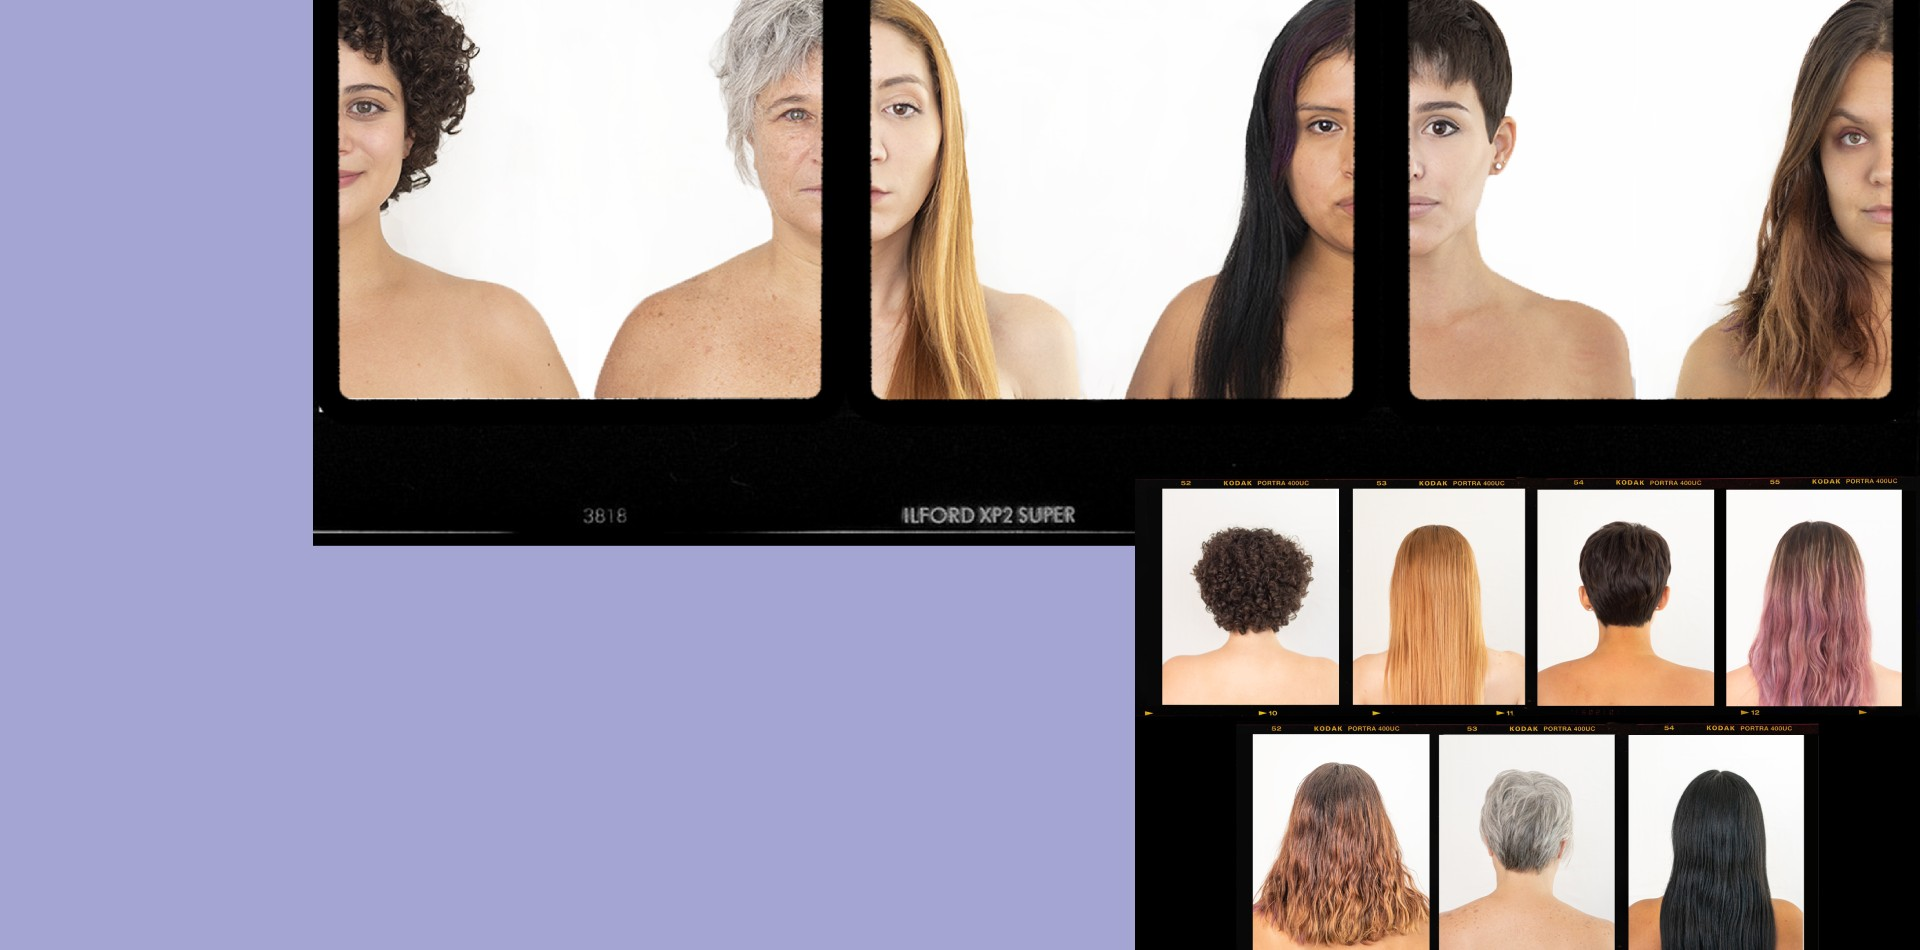
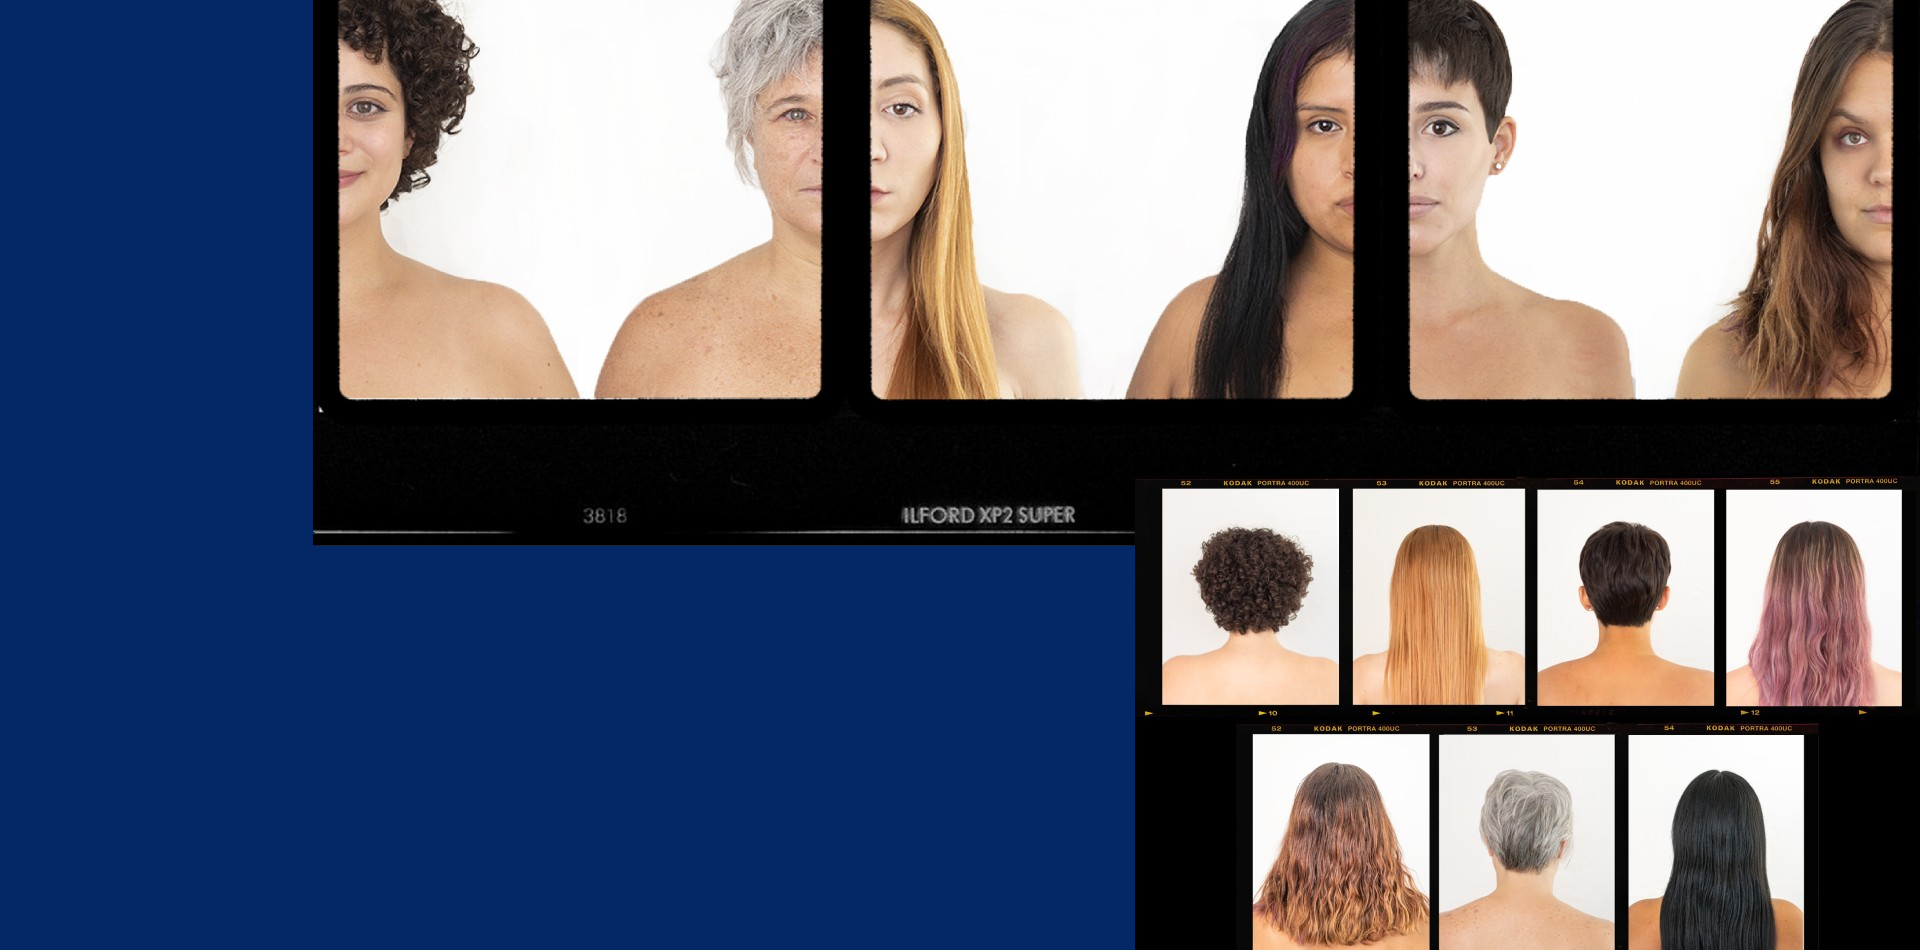
.

diff --git a/index.html b/index.html
@@ -82,9 +82,9 @@
     <div id="Wrapper">
         <div id="Header_wrapper">
             <header id="Header">
-                <div class="mfn-main-slider" id="mfn-rev-slider">
+                <div class="mfn-main-slider" id="mfn-rev-slider" style="background-color: #042766;">
                     <p class="rs-p-wp-fix"></p>
-                    <rs-module-wrap id="rev_slider_1_1_wrapper" data-source="gallery" style="background:transparent;padding:0;margin:0px auto;margin-top:0;margin-bottom:0;">
+                    <rs-module-wrap id="rev_slider_1_1_wrapper" data-source="gallery" style="background:transparent;padding:0;margin:0px auto;margin-top:0;margin-bottom:0; background-color: #042766;">
                         <rs-module id="rev_slider_1_1" style="display:none;" data-version="6.1.2">
                             <rs-slides>
                                 <rs-slide data-key="rs-1" data-data-anim="ei:d;eo:d;s:1000;r:0;t:fade;sl:0;">
@@ -279,6 +279,35 @@
                                                 </p>
                                             </div>
                                         </div>
+                                        
+                                        <!-- <div class="column mcb-column one-second column_column">
+                                            <div class="column_attr clearfix align_center" style="padding:0 15%;">
+                                                <div class="image_frame image_item no_link scale-with-grid alignnone no_border">
+                                                    <div class="image_wrapper"><img class="scale-with-grid" style="border-radius: 2%;" src="imagenes/Bellamente_Maro.jpg">
+                                                    </div>
+                                                </div>
+                                                <hr class="no_line" style="margin:0 auto 30px">
+                                                <h3 style="color: #042766;">Canas</h3>
+                                                <p style="color: #042766;">
+                                                    En las distintas etapas de la vida hallamos prejuicios. Cuando crecemos, y nuestro cuerpo cambia, nos encontramos con que las canas son de “dejada”. Con este prejuicio se ve la desigualdad de género que hay con respecto a la estética, ya que solo a las mujeres se les marca eso, mientras que a los hombres que eligen dejarse las canas se los ve como “interesantes”, “inteligentes”.
+                                                </p>
+                                            </div>
+                                        </div> -->
+                                        
+                                        <div class="column mcb-column one column_divider">
+                                            <hr class="no_line" style="margin:0 auto 30px">
+                                        </div>
+                                    </div>
+                                </div>
+                            </div>
+                        </div>
+
+                        <div class="section mcb-section bg-cover" style="padding-top:0px;padding-bottom:0px;background-color: #ffffff;background-repeat:no-repeat;background-position:center top;" id="prejuicios">
+                            <div class="section_wrapper mcb-section-inner">
+                                <div class="wrap mcb-wrap one valign-top clearfix" style="padding:60px 0 80px;background-color:#ffffff">
+                                    <div class="mcb-wrap-inner">
+                                        
+                                                    
                                         <div class="column mcb-column one-second column_column">
                                             <div class="column_attr clearfix align_center" style="padding:0 15%;">
                                                 <div class="image_frame image_item no_link scale-with-grid alignnone no_border">
@@ -292,20 +321,16 @@
                                                 </p>
                                             </div>
                                         </div>
+                                        
                                         <div class="column mcb-column one column_divider">
                                             <hr class="no_line" style="margin:0 auto 30px">
                                         </div>
-                                        <!-- <div class="column mcb-column one column_button">
-                                            <div class="button_align align_center">
-                                                <a class="button button_size_2 button_theme button_js" href="content/spa5/contact.html"><span class="button_label">CONTACT US</span></a>
-                                            </div>
-                                        </div> -->
                                     </div>
                                 </div>
                             </div>
                         </div>
 
-                        <div class="section mcb-section " style="padding-top:50px;padding-bottom:20px;background-color:#a5a5d3;">
+                        <div class="section mcb-section " style="padding-top:50px;padding-bottom:20px;background-color:#042765;">
                             <div class="section_wrapper mcb-section-inner">
                                 <div class="wrap mcb-wrap one valign-top clearfix">
                                     <div class="mcb-wrap-inner">
@@ -343,7 +368,7 @@
         </footer>
 
     </div>
-    <div id="Side_slide" class="right" style="background-color: #a5a5d3 ;font-weight: bold;;" data-width="250">
+    <div id="Side_slide" class="right" style="background-color: #042765 ;font-weight: bold;;" data-width="250">
         <div class="close-wrapper">
             <a href="#" class="close"><i class="icon-cancel-fine"></i></a>
         </div>

diff --git a/content/spa5/css/spa5.css b/content/spa5/css/spa5.css
@@ -1171,7 +1171,7 @@ body:not(.template-slider) #Header_wrapper {
 	}
 }
 #Header_wrapper, #Intro {
-	background-color: #a5a5d3;
+	background-color: #042765;
 }
 #Subheader {
 	background-color: rgba(247, 247, 247, 0);
@@ -1189,13 +1189,13 @@ body:not(.template-slider) #Header_wrapper {
 	border-top-color: #545454;
 }
 #Footer {
-	background-color: #a5a5d3;
+	background-color: #042765;
 }
 body, ul.timeline_items, .icon_box a .desc, .icon_box a:hover .desc, .feature_list ul li a, .list_item a, .list_item a:hover, .widget_recent_entries ul li a, .flat_box a, .flat_box a:hover, .story_box .desc, .content_slider.carouselul li a .title, .content_slider.flat.description ul li .desc, .content_slider.flat.description ul li a .desc, .post-nav.minimal a i {
-	color: #a5a5d3;
+	color: #042765;
 }
 .post-nav.minimal a svg {
-	fill: #a5a5d3;
+	fill: #042765;
 }
 .themecolor, .opening_hours .opening_hours_wrapper li span, .fancy_heading_icon .icon_top, .fancy_heading_arrows .icon-right-dir, .fancy_heading_arrows .icon-left-dir, .fancy_heading_line .title, .button-love a.mfn-love, .format-link .post-title .icon-link, .pager-single>span, .pager-single a:hover, .widget_meta ul, .widget_pages ul, .widget_rss ul, .widget_mfn_recent_comments ul li:after, .widget_archive ul, .widget_recent_comments ul li:after, .widget_nav_menu ul, .woocommerce ul.products li.product .price, .shop_slider .shop_slider_ul li .item_wrapper .price, .woocommerce-page ul.products li.product .price, .widget_price_filter .price_label .from, .widget_price_filter .price_label .to, .woocommerce ul.product_list_widget li .quantity .amount, .woocommerce .product div.entry-summary .price, .woocommerce .star-rating span, #Error_404 .error_pic i, .style-simple #Filters .filters_wrapper ul li a:hover, .style-simple #Filters .filters_wrapper ul li.current-cat a, .style-simple .quick_fact .title {
 	color: #ef4a24;
@@ -1341,14 +1341,14 @@ a.mfn-link-6:before {
 	color: #333333;
 }
 a.action_button {
-	background-color: #a5a5d3;
+	background-color: #042765;
 	color: #747474;
 }
 .button-stroke a.action_button {
-	border-color: #a5a5d3;
+	border-color: #042765;
 }
 .button-stroke a.action_button:hover {
-	background-color: #a5a5d3 !important;
+	background-color: #042765 !important;
 }
 #Top_bar .menu>li>a, #Top_bar #menu ul li.submenu .menu-toggle {
 	color: #252b51;
@@ -1445,10 +1445,10 @@ a.action_button {
 	color: rgba(37, 43, 81, 0.6);
 }
 #Footer, #Footer .widget_recent_entries ul li a {
-	color: #a5a5d3;
+	color: #042765;
 }
 #Footer a {
-	color: #a5a5d3;
+	color: #042765;
 }
 #Footer a:hover {
 	color: #ef4a24;
@@ -1673,10 +1673,10 @@ input[type="date"]:focus, input[type="email"]:focus, input[type="number"]:focus,
 	}
 }
 html {
-	background-color: #a5a5d3;
+	background-color: #042765;
 }
 #Wrapper, #Content {
-	background-color: #a5a5d3;
+	background-color: #042765;
 }
 body, button, span.date_label, .timeline_items li h3 span, input[type="submit"], input[type="reset"], input[type="button"], input[type="text"], input[type="password"], input[type="tel"], input[type="email"], textarea, select, .offer_li .title h3 {
 	font-family: 'HelveticaNeue-light' ;

diff --git a/css/structure.css b/css/structure.css
@@ -6650,7 +6650,7 @@ body {
         width: 100%;
         text-align: center;
         margin: 0;
-        background-color: #acaad7;
+        background-color: #042765;
     }
 
     #Top_bar .logo #logo {
